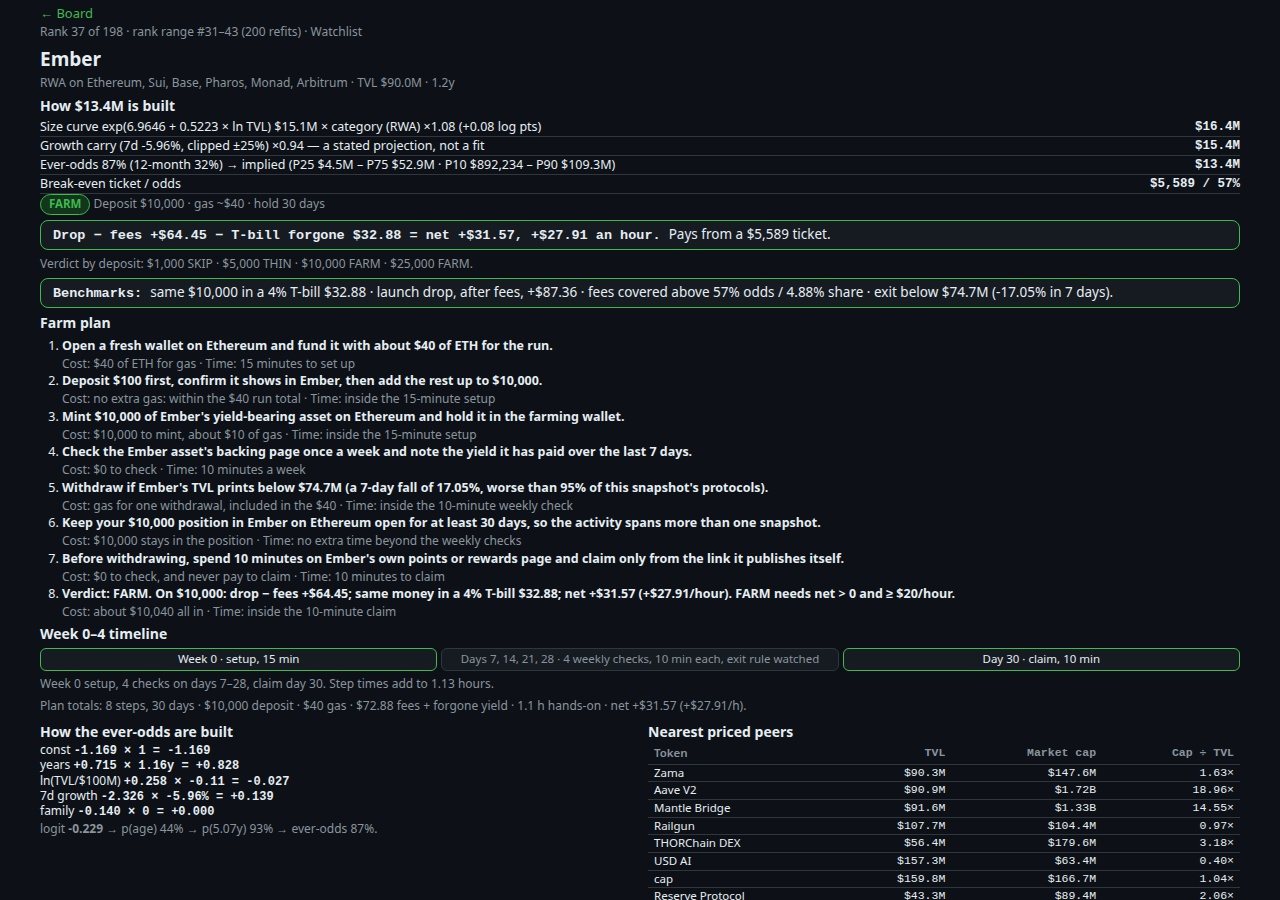
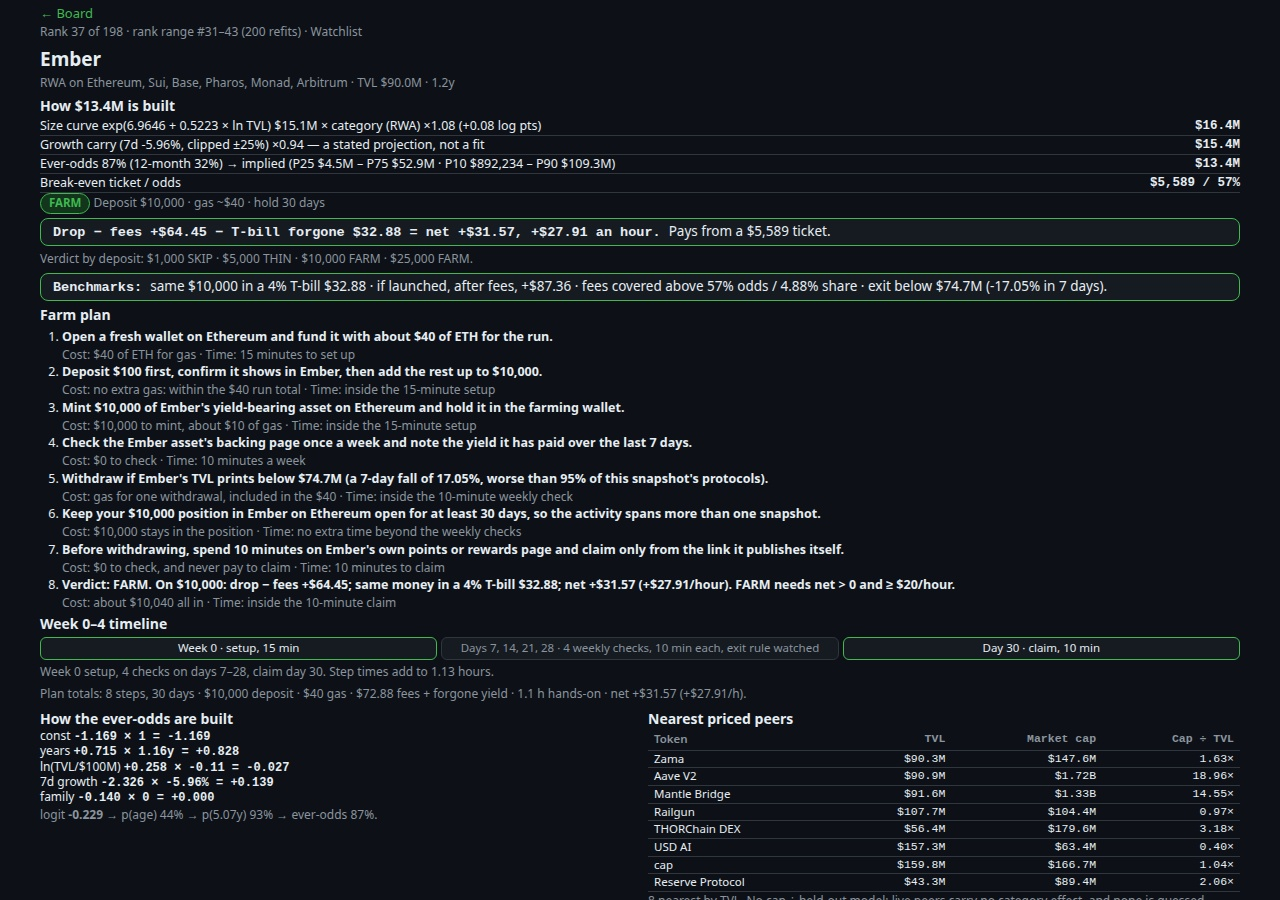
token-radar v11 (radar-12): odds select widened, detail rhythm tightened, legend/benchmarks copy trimmed

Changed region(s): [[0.0312, 0.1244, 0.9688, 1.0]]

diff --git a/dashboard/app.js b/dashboard/app.js
@@ -52,7 +52,7 @@
   function catOf(r) { return r.category ? r.category : 'Other'; }
   function isDefault() { return S.deposit === 'row' && S.share === 0.07 && S.horizon === 'model'; }
   function depositLabel() {
-    if (S.deposit === 'row') return 'per-row deposit';
+    if (S.deposit === 'row') return 'per-row';
     return '$' + S.deposit.toLocaleString('en-US');
   }
 
@@ -484,7 +484,7 @@
     table.appendChild(tb2);
     var fc = { farm: 0, thin: 0, skip: 0 };
     priced.forEach(function (x) { fc[x.v] = (fc[x.v] ? fc[x.v] : 0) + 1; });
-    var note = list.length + ' rows · sorted by ' + sortLabel + ' ↓ · rank range P10–P90, 200 refits · ' + fc.farm + ' farm, ' + fc.thin + ' thin, ' + fc.skip + ' skip at ' + depositLabel() + ' · FARM: odds ≥50%, net >0, ≥$20/h · SKIP: odds <30%, slice ≤gas, 7d ≤−30% · THIN: rest (FARM→THIN at 7d ≤−15%).';
+    var note = list.length + ' rows · sorted by ' + sortLabel + ' ↓ · rank range P10–P90, 200 refits · ' + fc.farm + ' farm, ' + fc.thin + ' thin, ' + fc.skip + ' skip ' + depositLabel() + ' · FARM: odds ≥50%, net >0, ≥$20/h · SKIP: odds <30%, slice ≤gas, 7d ≤−30% · THIN: rest (FARM→THIN at 7d ≤−15%).';
     if (S.verdict !== 'all') note = 'Filtered to ' + S.verdict.toUpperCase() + ' verdict · ' + note;
     setText('count', note);
     var vSel = document.getElementById('verdict');
@@ -581,7 +581,7 @@
     var shareStar = (gas + p.tbill) / (r.implied_value_usd * (p.deposit / r.tvl_usd));
     var bench = el('div', { class: 'eqbar' });
     bench.appendChild(el('b', { text: 'Benchmarks: ' }));
-    bench.appendChild(document.createTextNode('same $' + p.deposit.toLocaleString('en-US') + ' in a 4% T-bill ' + money2(p.tbill) + ' · launch drop, after fees, ' + signed(launchDrop) + ' · fees covered above ' + (p.beO !== null ? Math.round(p.beO * 100) + '%' : '—') + ' odds / ' + (shareStar * 100).toFixed(2) + '% share · exit below ' + money(r.exit_tvl_usd) + ' (' + pct(r.exit_drop_pct) + ' in 7 days).'));
+    bench.appendChild(document.createTextNode('same $' + p.deposit.toLocaleString('en-US') + ' in a 4% T-bill ' + money2(p.tbill) + ' · if launched, after fees, ' + signed(launchDrop) + ' · fees covered above ' + (p.beO !== null ? Math.round(p.beO * 100) + '%' : '—') + ' odds / ' + (shareStar * 100).toFixed(2) + '% share · exit below ' + money(r.exit_tvl_usd) + ' (' + pct(r.exit_drop_pct) + ' in 7 days).'));
     inner.appendChild(bench);
     inner.appendChild(el('h3', { text: 'Farm plan' }));
     var steps = el('ol', { class: 'steps' });

diff --git a/dashboard/app.css b/dashboard/app.css
@@ -50,14 +50,14 @@ td{font-size:12.5px}
 th.num{text-align:right}
 .pos{color:var(--accent)}
 .neg{color:var(--red)}
-.controls{display:flex;gap:4px;flex-wrap:nowrap;align-items:end;margin:0}
+.controls{display:flex;gap:3px;flex-wrap:nowrap;align-items:end;margin:0}
 .field{display:flex;flex-direction:column;gap:1px}
 .field-label{font-size:11px;color:var(--muted)}
 input,select{background:var(--surface);color:var(--text);border:1px solid var(--border);border-radius:7px;padding:2px 6px;font:inherit;font-size:12px}
 #q{width:136px}
-#cat{width:128px}
+#cat{width:120px}
 #chain{width:88px}
-#odds{width:52px}
+#odds{width:64px}
 #verdict{width:84px}
 .seg{display:flex}
 .seg button{background:var(--surface);color:var(--muted);border:1px solid var(--border);padding:2px 3px;font:inherit;font-size:11.5px;cursor:pointer;white-space:nowrap}
@@ -110,15 +110,15 @@ td.hot{background:var(--surface2);outline:1px solid var(--accent)}
 .detail-inner{max-width:1240px;margin:0 auto;padding:0 20px;font-size:12.5px}
 .detail-page h2{font-size:19px;margin:1px 0}
 .back{background:none;border:0;color:var(--accent);font:inherit;font-size:13px;cursor:pointer;padding:0}
-.eqbar{background:var(--surface);border:1px solid var(--accent);border-radius:8px;padding:4px 12px;font-size:13.5px;margin:5px 0}
+.eqbar{background:var(--surface);border:1px solid var(--accent);border-radius:8px;padding:3px 12px;font-size:13.5px;margin:4px 0}
 .eqbar b{font-family:var(--num)}
 .detail-page .equation div{display:flex;justify-content:space-between;gap:12px;padding:0;border-bottom:1px solid var(--border)}
 .detail-page .equation b{font-family:var(--num);text-align:right;white-space:nowrap}
-.steps{margin:3px 0;padding-left:22px}
+.steps{margin:2px 0;padding-left:22px}
 .steps li{margin-bottom:0}
 .steps .cost{color:var(--muted);font-size:12px;display:block}
-.detail-page h3{font-size:14px;margin:2px 0 1px}
-.timeline{display:flex;gap:4px;margin:4px 0}
+.detail-page h3{font-size:14px;margin:1px 0 0}
+.timeline{display:flex;gap:4px;margin:3px 0}
 .timeline span{flex:1;background:var(--surface);border:1px solid var(--border);border-radius:6px;padding:2px 6px;font-size:11.5px;color:var(--muted);text-align:center}
 .timeline span.hot{border-color:var(--accent);color:var(--text)}
 @media (max-width:900px){.kpis{grid-template-columns:repeat(4,1fr)}.evidence3{grid-template-columns:1fr}}
